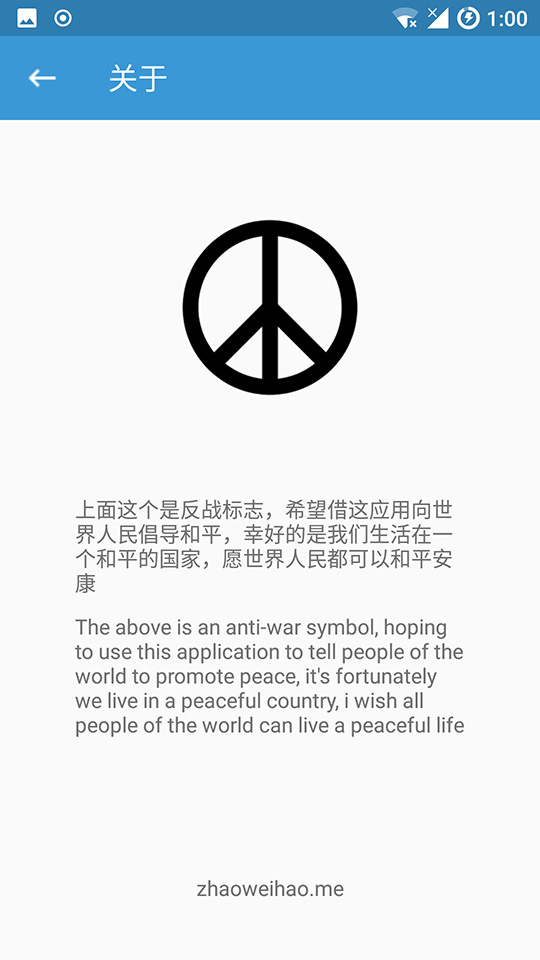
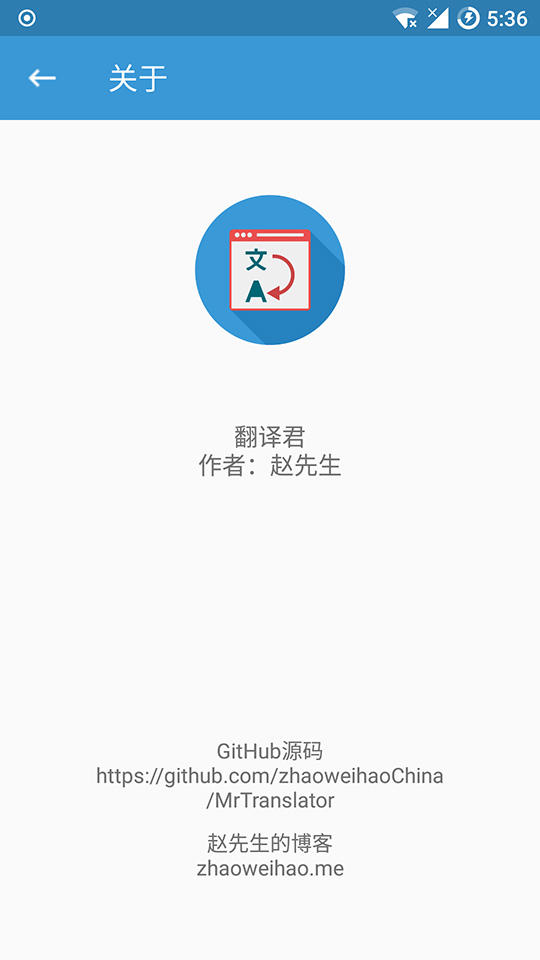
更换关于页面

diff --git a/app/src/main/java/com/zhaoweihao/mrtranslator/Activity/AboutActivity.java b/app/src/main/java/com/zhaoweihao/mrtranslator/Activity/AboutActivity.java
@@ -1,21 +1,31 @@
 package com.zhaoweihao.mrtranslator.Activity;
 
+import android.content.ActivityNotFoundException;
+import android.content.Intent;
+import android.net.Uri;
 import android.os.Bundle;
 import android.support.annotation.Nullable;
 import android.support.v7.app.ActionBar;
 import android.support.v7.app.AppCompatActivity;
 import android.support.v7.widget.Toolbar;
 import android.view.MenuItem;
+import android.view.View;
+import android.widget.TextView;
+import android.widget.Toast;
 
 import com.zhaoweihao.mrtranslator.R;
 
 /**
- * Created by Administrator on 2017/7/26.
+ * Created by Zhao Weihao on 2017/7/26.
  */
 
 public class AboutActivity extends AppCompatActivity {
 
     private Toolbar toolbar;
+
+    private TextView githubText;
+
+    private TextView blogText;
 
     @Override
     protected void onCreate(@Nullable Bundle savedInstanceState) {
@@ -24,12 +34,49 @@ public class AboutActivity extends AppCompatActivity {
         toolbar= (Toolbar) findViewById(R.id.toolbar);
         setSupportActionBar(toolbar);
 
+        githubText= (TextView) findViewById(R.id.github_text);
+        blogText= (TextView) findViewById(R.id.blog_text);
+
+        githubText.setOnClickListener(new View.OnClickListener() {
+            @Override
+            public void onClick(View v) {
+
+                try {
+                    Intent intent = new Intent(Intent.ACTION_VIEW);
+                    intent.setData(Uri.parse(getString(R.string.githubURL)));
+                    startActivity(intent);
+                } catch (ActivityNotFoundException ex) {
+                    showError();
+                }
+
+            }
+        });
+
+        blogText.setOnClickListener(new View.OnClickListener() {
+            @Override
+            public void onClick(View v) {
+
+                try {
+                    Intent intent = new Intent(Intent.ACTION_VIEW);
+                    intent.setData(Uri.parse(getString(R.string.blogURL)));
+                    startActivity(intent);
+                } catch (ActivityNotFoundException ex) {
+                    showError();
+                }
+
+            }
+        });
+
         ActionBar actionBar=getSupportActionBar();
         if(actionBar!=null){
 
             actionBar.setDisplayHomeAsUpEnabled(true);
             actionBar.setHomeAsUpIndicator(R.drawable.ic_keyboard_backspace_white_24dp);
         }
+    }
+
+    private void showError() {
+        Toast.makeText(this, R.string.error, Toast.LENGTH_SHORT).show();
     }
     @Override
     public boolean onOptionsItemSelected(MenuItem item) {

diff --git a/README.md b/README.md
@@ -18,6 +18,7 @@
 ![](https://github.com/zhaoweihaoChina/MrTranslator/blob/master/screenshots/one.jpg)
 ![](https://github.com/zhaoweihaoChina/MrTranslator/blob/master/screenshots/two.jpg)
 ![](https://github.com/zhaoweihaoChina/MrTranslator/blob/master/screenshots/three.jpg)
+![](https://github.com/zhaoweihaoChina/MrTranslator/blob/master/screenshots/four.jpg)
 
 
 
